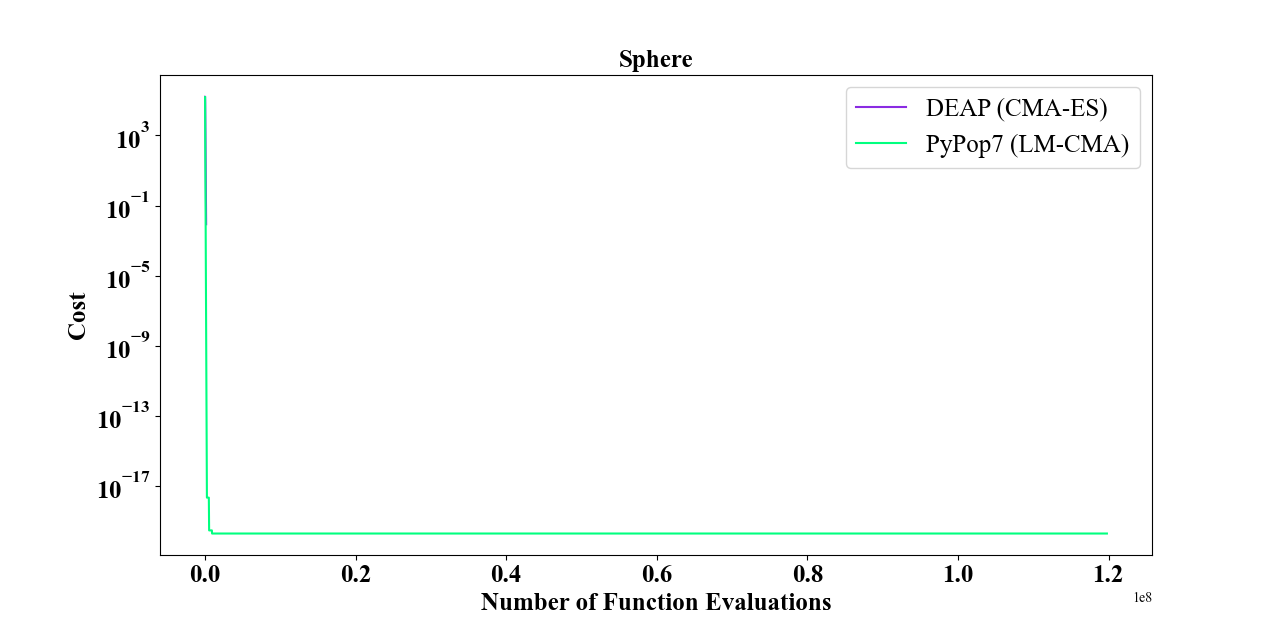
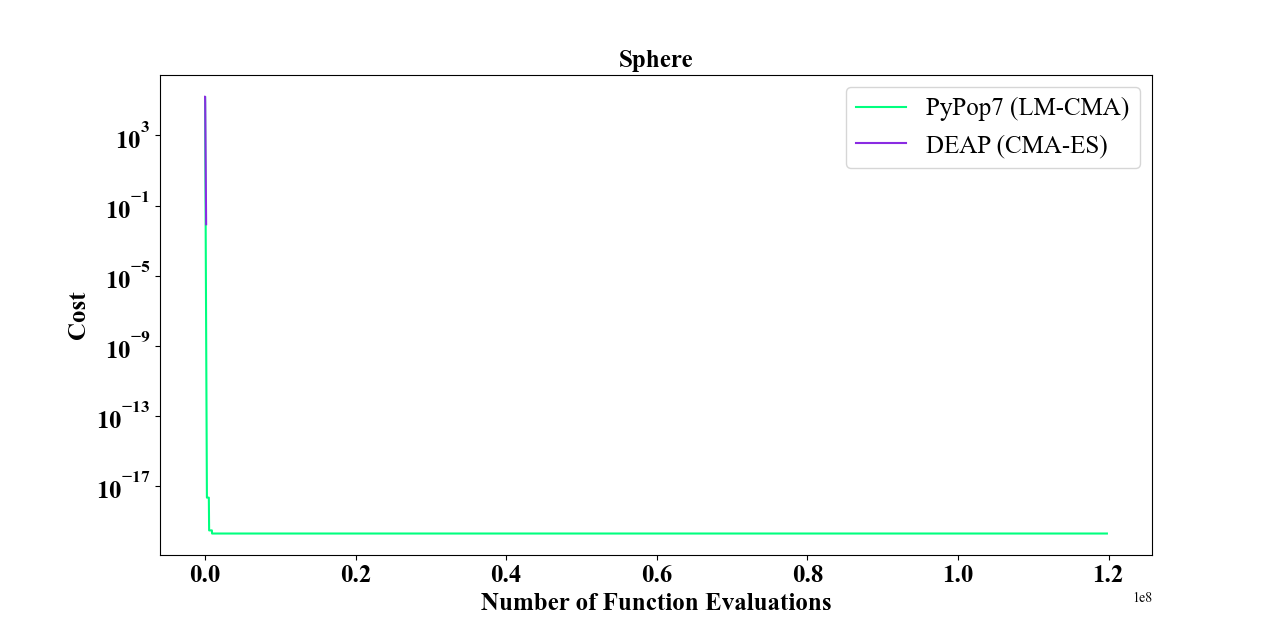
Update docs/efficiency/sphere/compare_deap-cmaes_vs_pypop7-lmcma.py

Changed region(s): [[0.7188, 0.2131, 0.875, 0.2436], [0.7188, 0.1522, 0.875, 0.1827]]

diff --git a/docs/efficiency/sphere/compare_deap-cmaes_vs_pypop7-lmcma.py b/docs/efficiency/sphere/compare_deap-cmaes_vs_pypop7-lmcma.py
@@ -21,9 +21,9 @@ def read_pickle(s, ii):
 
 if __name__ == '__main__':
     n_trials = 10
-    algos = ['DEAP', 'PYPOP7LM']
-    labels = ['DEAP (CMA-ES)', 'PyPop7 (LM-CMA)']
-    colors = ['blueviolet', 'springgreen']
+    algos = ['PYPOP7LM', 'DEAP']
+    labels = ['PyPop7 (LM-CMA)', 'DEAP (CMA-ES)']
+    colors = ['springgreen', 'blueviolet']
     max_runtime, fitness_threshold = 3600*3 - 10*60, 1e-10
     time, fitness, fe = [], [], []
     for j in range(len(algos)):  # initialize
@@ -70,6 +70,40 @@ if __name__ == '__main__':
     plt.legend(labels, fontsize=18)
     plt.show()
 
+    algos = ['DEAP', 'PYPOP7LM']
+    labels = ['DEAP (CMA-ES)', 'PyPop7 (LM-CMA)']
+    colors = ['blueviolet', 'springgreen']
+    max_runtime, fitness_threshold = 3600 * 3 - 10 * 60, 1e-10
+    time, fitness, fe = [], [], []
+    for j in range(len(algos)):  # initialize
+        time.append([])
+        fitness.append([])
+        fe.append([])
+        for i in range(n_trials):
+            time[j].append([])
+            fitness[j].append([])
+            fe[j].append([])
+    for i in range(n_trials):
+        for j, a in enumerate(algos):
+            results = read_pickle(a, str(i + 1))
+            time[j][i] = results['fitness'][:, 0] * results['runtime'] / results['n_function_evaluations']
+            fe[j][i] = results['fitness'][:, 0]
+            y = results['fitness'][:, 1]
+            fitness[j][i] = y
+            print(i + 1, ' * ', a, ':', results['n_function_evaluations'], results['best_so_far_y'])
+    top_fitness, top_order = [], []
+    for j, a in enumerate(algos):
+        run, fit, r_f = [], [], []
+        for i in range(len(time[j])):
+            run.append(time[j][i][-1] if time[j][i][-1] <= max_runtime else max_runtime)
+            fit.append(fitness[j][i][-1] if fitness[j][i][-1] >= fitness_threshold else fitness_threshold)
+            r_f.append([run[i], fit[i], i])
+        r_f.sort(key=lambda x: (x[0], x[1]))  # sort by first runtime then fitness
+        order = r_f[int(n_trials / 2)][2]  # for median (but non-standard for simplicity)
+        top_order.append(order)
+        top_fitness.append([run[order], fit[order], a])
+    top_fitness.sort(key=lambda x: (x[0], x[1]))
+    top_fitness = [t for t in [tr[2] for tr in top_fitness]]
     fig = plt.figure(figsize=(8.5, 8.5))
     plt.rcParams['font.family'] = 'Times New Roman'
     ax1 = fig.add_subplot(111)
